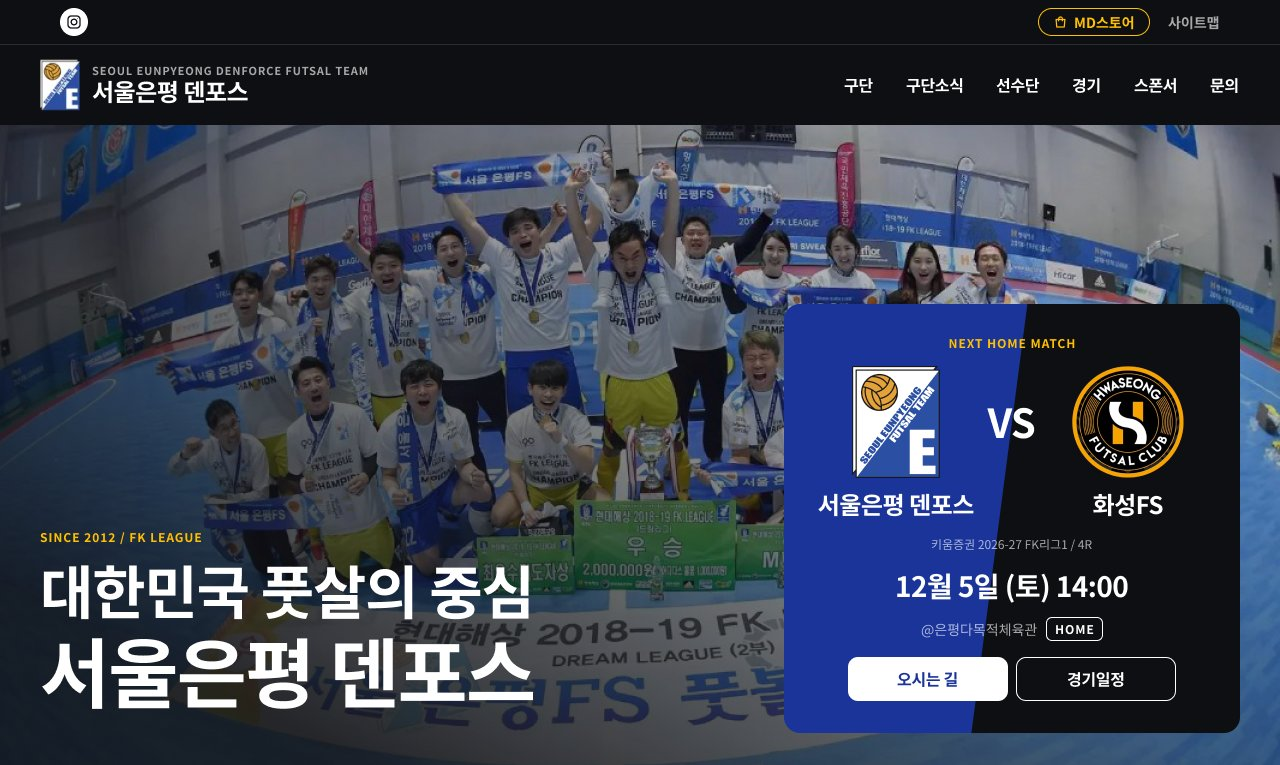
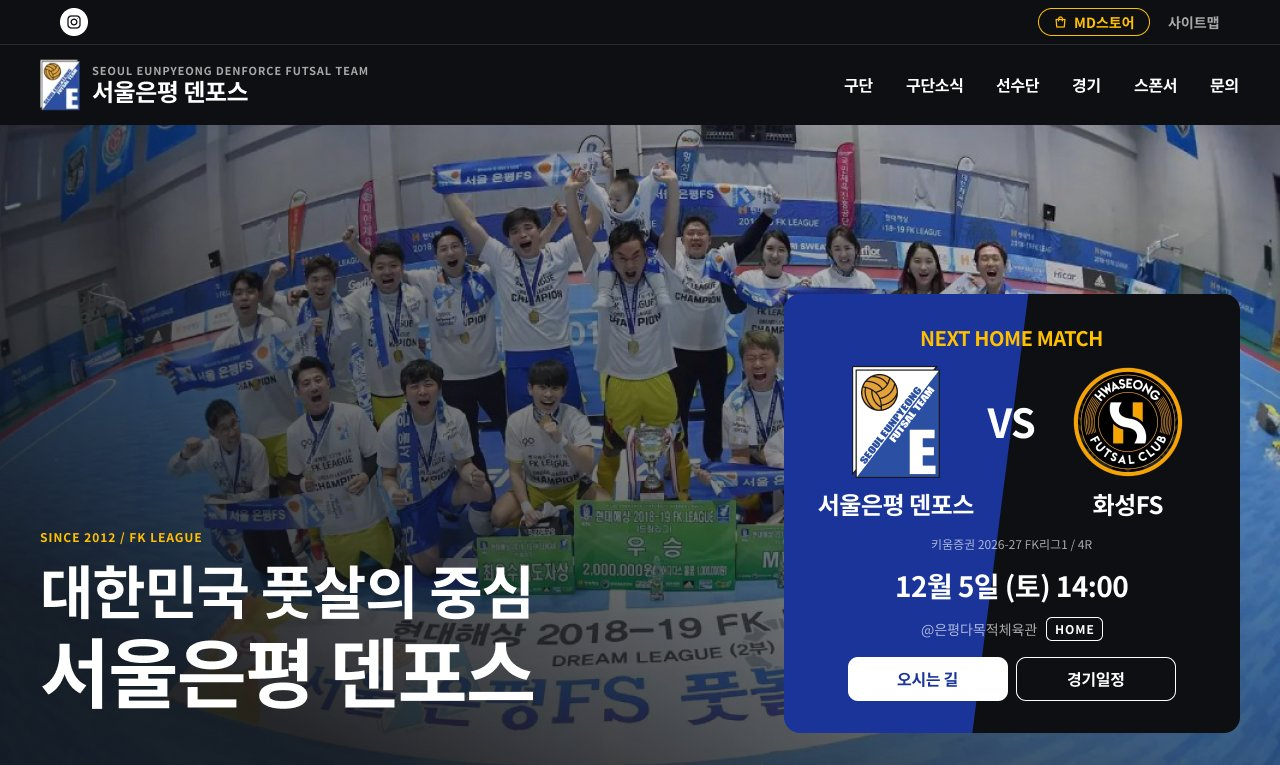
docs(figma-sync): Next Home Match v2 ② 좌우 분할 확정 스펙과 캡처
Claude-Session: https://claude.ai/code/session_015na33aTWafjDhk1iuVEHbY

Changed region(s): [[0.5938, 0.3608, 0.9688, 0.481], [0.8125, 0.481, 0.9375, 0.6314]]

diff --git a/sites/eunpyeong-denforce/docs/FIGMA_SYNC.md b/sites/eunpyeong-denforce/docs/FIGMA_SYNC.md
@@ -401,6 +401,23 @@
 
 '제안'은 시안만 있고 코드에는 없는 동작이다. 넣을지는 기능 세션과 총괄이 정한다.
 
+### NextMatchHero v2 ② 좌우 분할 (소유자 확정 2026-11-11, 기준 원본)
+
+피그마 섹션 223:24706. 확정 프레임: PC 223:24911, PC 제천FS 대체 223:24989, PC 긴 이름 227:187, 휴대폰 223:25069, 휴대폰 긴 이름 227:263, 휴대폰 제천FS 227:310. ①, ③ 은 '[보관: 선택 안 됨]'. 캡처는 docs/figma-captures/nmh-v2/2-*.jpg. 아래에 없는 값(버튼, 대회 태그, 날짜, 장소 + HOME, 가운데 정렬 순서)은 위 '가운데 정렬' 표 그대로다.
+
+| 부분 | PC (카드 456) | 휴대폰 (카드 358) | 토큰 |
+|---|---|---|---|
+| 카드 | 검정, 라운드 16, 안쪽 여백 32, 줄 간격 16. 히어로 아래 끝에서 32 위에 붙인다(아래 맞춤) | 안쪽 여백 16, 줄 간격 12. 화면 580 에서 12 위에 아래 맞춤(카드와 버튼이 첫 화면 안) | color/black, radius/l |
+| 파랑 반쪽 | 카드 왼쪽, 전체 높이, 카드 라운드로 잘림. 경계 사선 위 x = 50% + 16, 아래 x = 50% - 40(VS 가운데를 지남) | 위 50% + 10, 아래 50% - 30 | color/blue, 그라데이션 없음, 카드에 딸린 면이라 '떠 있는 박스'가 아님 |
+| 라벨 NEXT HOME MATCH | 20 Bold (12 에서 키움, 소유자 2026-11-11 '작게 두지 말고') | 16 Bold | kfa/m/h3 / kfa/m/h4, color/yellow |
+| 대진 줄 | [160 \| 56 \| 160] 사이 8, 엠블럼 칸 높이 112 | [135 \| 40 \| 135] 사이 8, 칸 높이 72 | - |
+| 우리 엠블럼 | MatchEmblem 우리 팀 112 (88x112) | 72 (56x72) | emblem-mark.png, 테두리 없음, 바탕 없음 |
+| 상대 엠블럼 | MatchEmblem 상대 112 (원본 비율, 높이 112) / 원본 없으면 대체 112 | 72 | public/crests/*.png / 방패 선 color/on-dark |
+| 팀 이름 | 24 Bold, 2줄까지, 낱말 경계 줄바꿈(word-break: keep-all) | 20 Bold (16 에서 키움) | kfa/pc/h3 / kfa/m/h3, color/on-dark |
+| VS | 40 Bold | 28 Bold | kfa/pc/vs / kfa/m/vs, color/on-dark |
+
+**우리 엠블럼 규칙(모든 곳 공통, 17ddf61 의 흰 바탕을 대신함)**: public/brand/emblem-mark.png(SINCE 2012 줄 없음)를 테두리와 바탕 없이 그대로 쓴다. 깃발의 검은 외곽선이 어두운 면, 파랑 면, 흰 면 모두에서 경계가 된다. MatchEmblem 190:734 우리 팀 9크기(112, 96, 88, 72, 64, 56, 40, 32, 24)를 이 파일로 바꾸고 바깥선을 지웠다. 그래서 경기 3칸 띠(200:21536 / 200:21621)와 경기표, 순위표 24 에도 그대로 이어진다. 파랑 반쪽은 이 카드에만 쓰고, 띠와 표 바탕은 지금 그대로다.
+
 ## 기능 세션 결정 (총괄이 합칠 때 DECISION_LOG 로 옮겨 주세요)
 
 - 새 의존성 없음: 피그마 타입은 `figma-plugin/src/figma.d.ts`(쓰는 API 만), 플러그인 묶기는 저장소 typescript 로(`scripts/figma/plugin-bundle.ts`). `@figma/plugin-typings`/esbuild 는 DEPENDENCY_POLICY 승인 대상이라 넣지 않았다.
@@ -505,3 +522,4 @@
 - 2026-11-11 기능: 운영 이미지 402 대응(D-073) — next.config.ts images.unoptimized true(원본 그대로). 운영 데이터 빌드에서 홈, /news, /news/posting, /team/players, 기사 상세, 선수 상세 1280/390: /_next/image 요청 0, 깨진 사진 0, FitImage 판정 어긋남 0, 가로 넘침 0. 22페이지 x 12폭 전수 ALL CLEAN.
 - 2026-11-11 총괄: 2~6단계 + D-072 대회명 + D-073 이미지 운영 배포 — dpl_J1ZZ5urgzfJoLrEazDXXrVKtuXKy(커밋 34221cc), instagram-sync 버전 5. 운영 20쪽 x 1280/390 전부 정상(200, 넘침/중간점/깨진 사진/402 0). 디자인 다듬기는 I-050, I-054, 파랑 면 질감 후보 202:363/202:535/202:607 로 남김.
 - 2026-11-11 디자인: tender-keller 17ddf61 merge(진행 기록 충돌은 양쪽 줄 모두 남김). Next Home Match v2 시안(소유자 '박스' 지적: 우리 쪽에만 붙은 파랑 사선 면 + 엠블럼 흰 1px 테두리). 새 섹션 223:24706, 기존 승인 프레임은 그대로. 공통: 우리 엠블럼은 emblem-mark.png(SINCE 줄 없음)를 테두리와 바탕 없이, 상대 원본도 같은 칸 높이(PC 112 / 휴대폰 72)로 같은 무게, 휴대폰 이름 kfa/m/h3 20 Bold(칸 [135 | 40 | 135]), 데이터 화성FS / 12월 5일 (토) 14:00 / 키움증권 2026-27 FK리그1 / 4R / 은평다목적체육관 / HOME, 대체 방패 예시는 제천FS. ① 무테 대칭(검정 카드, 장식 없음) PC 223:24707 / 제천 223:24784 / 휴대폰 223:24863. ② 좌우 분할(카드 왼쪽 반 color/blue 전체 높이, VS 를 지나는 사선) 223:24911 / 223:24989 / 223:25069. ③ 밝은 카드(color/bg, 라벨과 VS blue, 버튼 blue 면 + line 테두리) 223:25118 / 223:25198 / 223:25280. 캡처 docs/figma-captures/nmh-v2/*.jpg. PC 카드 아래 끝 733 ≤ 히어로 765, 휴대폰 카드와 버튼 580 안. 감사: 맨 색 0, 스타일 없는 글자 0, 중간점 0. get_screenshot 확인. 소유자 선택 대기.
+- 2026-11-11 디자인: 소유자 ② 좌우 분할 확정, 'NEXT HOME MATCH 도 작게 두지 말고' 반영. MatchEmblem: 우리 팀 9크기를 emblem-mark.png, 테두리 없음으로 바꾸고 Size=112, 72(우리 팀, 상대, 대체) 추가. ② 프레임 3장의 엠블럼을 부품 인스턴스로 바꾸고 라벨을 PC 20 / 휴대폰 16 Bold 로 키움. 카드는 아래 맞춤(PC 아래 32, 휴대폰 아래 12). 긴 이름 PC 227:187 / 휴대폰 227:263, 휴대폰 제천FS 227:310 추가. ①, ③ 은 '[보관: 선택 안 됨]'. 부품 지도에 '### NextMatchHero v2 ② 좌우 분할' 표. 캡처 2-*.jpg 6장. 감사: ② 프레임과 MatchEmblem 맨 색 0, 스타일 없는 글자 0(보관 ①, ③ 의 크기 바꾼 대체 방패 글자 2개는 그대로), 중간점 0. get_screenshot 확인(PC, 휴대폰 긴 이름, 휴대폰 제천FS, 경기 3칸 띠).
